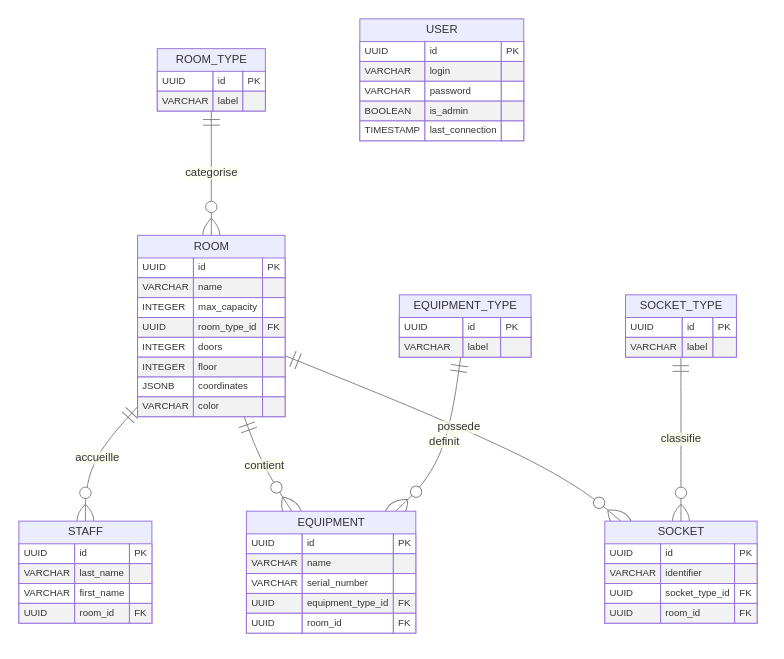
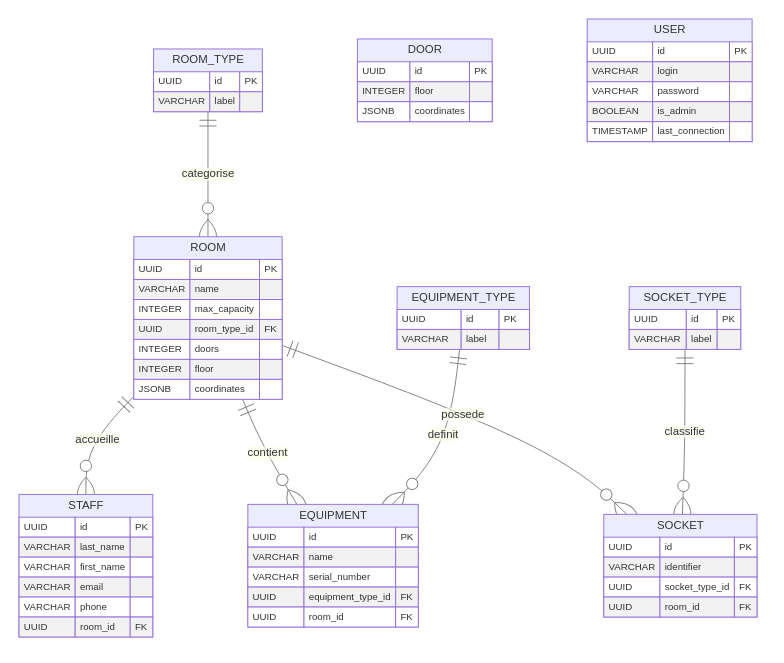
rapport v0.9999

diff --git a/rapport/sections/04_database.tex b/rapport/sections/04_database.tex
@@ -1,6 +1,6 @@
 \chapter{Conception de la Base de Données}
 
-La conception de la base de données est au cœur de notre application. Pour garantir l'intégrité des données des locaux, du personnel et du matériel, nous avons choisi une modélisation relationnelle sous PostgreSQL.
+La conception de la base de données est au cœur de notre application. Pour garantir l'intégrité des données des locaux, du personnel et du matériel, nous avons choisi une modélisation relationnelle sous PostgreSQL. Les tables utilisent des identifiants UUID pour garantir l'unicité et faciliter les fusions/synchronisations ; les coordonnées des salles sont stockées au format JSONB afin de conserver une représentation structurée et extensible des positions et dimensions des zones sur les plans.
 
 \section{Modèle Logique de Données (MLD)}
 Le schéma ci-dessous présente l'organisation des tables et les relations entre elles. Il met l'accent sur les contraintes d'intégrité référentielle (clés primaires et étrangères), qui assurent la cohérence des informations de l'inventaire et de l'occupation des salles.
@@ -17,9 +17,20 @@ Le schéma ci-dessous présente l'organisation des tables et les relations entre
     \item \textbf{Table \texttt{room}} : Elle modélise les espaces physiques. Chaque salle est caractérisée par sa capacité maximale, son type, son étage et ses coordonnées pour le plan.
     \item \textbf{Table \texttt{staff}} : Elle contient le personnel affecté aux locaux. La relation \texttt{room\_id} permet de savoir où chaque employé est positionné.
     \item \textbf{Table \texttt{user}} : Cette table stocke les comptes d'accès à l'application. Le champ \texttt{is\_admin} distingue les utilisateurs avec droits d'administration des utilisateurs standards.
+    \item \textbf{Champs de contact utilisateur} : la table \texttt{user} contient également les champs \texttt{email} et \texttt{phone} pour permettre la communication et la récupération d'accès. Ces données personnelles doivent être traitées conformément aux bonnes pratiques de confidentialité (chiffrement en transit, accès restreint, politiques de rétention).
     \item \textbf{Tables de référence} : \texttt{room\_type}, \texttt{equipment\_type} et \texttt{socket\_type} garantissent la cohérence des catégories utilisées dans les salles, le matériel et les prises.
     \item \textbf{Table \texttt{equipment}} : Elle représente l'inventaire matériel d'une salle. Chaque équipement est lié à un type et peut être rattaché à une salle.
     \item \textbf{Table \texttt{socket}} : Elle répertorie les prises présentes dans chaque salle et les associe à un type de connectique.
 \end{itemize}
 
 La modélisation adopte des règles solides : les types de référence sont supprimés en cascade, tandis que les dépendances sur les salles sont gérées avec \texttt{SET NULL} lorsque cela est pertinent, afin de préserver les données historiques et limiter les pertes involontaires.
+
+\subsection{Remarques et optimisations}
+La base contient également une table \texttt{door} (identifiant, étage et coordonnées JSONB) utilisée pour modéliser des points d'accès sur les plans. Les coordonnées des salles et portes sont stockées en \texttt{JSONB} afin de garder une structure flexible et extensible.
+
+Recommandations pratiques :
+\begin{itemize}
+    \item Ajouter des indexes sur les colonnes souvent filtrées comme \texttt{room.name}, \texttt{staff.room\_id} et \texttt{equipment.room\_id} pour améliorer les performances de lecture.
+    \item Documenter une politique de sauvegarde et de restauration (dumps réguliers du volume \texttt{pgdata}).
+    \item Ne pas laisser de comptes administrateurs avec identifiants par défaut en production ; forcer le changement de mot de passe au premier login.
+\end{itemize}

diff --git a/rapport/sections/05_logiciel.tex b/rapport/sections/05_logiciel.tex
@@ -23,3 +23,6 @@ La conception logicielle privilégie une séparation claire des responsabilités
 \end{itemize}
 
 Cette architecture améliore la maintenabilité du projet. Le backend reste léger et modulaire, tandis qu'Angular assure un rendu dynamique et une expérience utilisateur fluide.
+
+\section{Sécurité et gestion des mots de passe}
+Le backend gère l'authentification des utilisateurs et le stockage sécurisé des mots de passe. Concrètement, les mots de passe sont hachés côté serveur (fonction `hashPassword` dans `back/config/auth.js`) à l'aide d'un dérivé sécurisé (scrypt) avant d'être persistés en base. La vérification (`verifyPassword`) compare de façon sécurisée le mot de passe fourni avec le haché stocké. Par mesure de sécurité, il est recommandé de changer le mot de passe administrateur par défaut fourni dans les scripts d'initialisation dès le premier déploiement, et d'utiliser des secrets/variables d'environnement pour les identifiants en production.

diff --git a/rapport/sections/01_introduction.tex b/rapport/sections/01_introduction.tex
@@ -3,7 +3,7 @@
 Dans le cadre de notre dernière année de Master 2 en Informatique, parcours Conception et Développement, il nous a été confié la réalisation d'un projet de fin d'études axé sur la gestion du personnel et du matériel du département informatique. 
 
 \section{Contexte et Objectifs}
-L'objectif principal de ce projet est de concevoir et développer une web app complète permettant de recenser et de gérer les personnels ainsi que le matériel informatique au sein des différents locaux du département. 
+L'objectif principal de ce projet est de concevoir et développer une web app complète permettant de recenser et de gérer les personnels ainsi que le matériel informatique au sein des différentes salles du département. 
 
 Ce système doit permettre de classer les espaces selon leur type (bureau, salle de classe, salle de réunion...) et de gérer leur capacité d'accueil. Il est également nécessaire de pouvoir suivre l'équipement présent dans chaque salle (prises réseaux, vidéoprojecteurs tableaux...), et de gérer dynamiquement les affectations du personnel.
 

diff --git a/rapport/sections/02_visualisation.tex b/rapport/sections/02_visualisation.tex
@@ -25,7 +25,7 @@ La figure ci-dessous illustre l'interface principale de l'application, montrant 
 
 \begin{figure}[h]
     \centering
-    %\includegraphics[width=\linewidth,keepaspectratio]{img/screenshot_interface.png}
+    \includegraphics[width=\linewidth,keepaspectratio]{img/screenshot_interface.png}
     \caption{Interface de visualisation des plans JSON avec options d'export PDF}
     \label{fig:screenshot-interface}
 \end{figure}

diff --git a/rapport/sections/03_architecture.tex b/rapport/sections/03_architecture.tex
@@ -28,7 +28,7 @@ Le schéma suivant illustre le workflow principal de l'application : l'utilisate
 Afin de garantir que notre site soit "facilement installable" sur n'importe quel serveur du département informatique, nous avons intégré Docker dès le premier jour de développement. Docker nous permet d'encapsuler notre base de données, notre backend et notre frontend dans des conteneurs isolés. L'utilisation de \texttt{docker-compose} permet de lancer l'intégralité de l'environnement avec une seule commande, résolvant ainsi les problèmes de compatibilité entre les systèmes d'exploitation, que ce soit pour nous développeurs du projet, ou pour les futurs utilisateurs.
 
 \section[Collaboration et Intégration Continue : GitHub]{Collaboration et Intégration Continue : GitHub \raisebox{-0.2\height}{\includegraphics[height=0.6cm]{img/logo_github.png}}}
-Travaillant en équipe de quatre, nous avons choisi GitHub comme plateforme de gestion des versions du code. Cette approche nous a permis de maintenir une traçabilité rigoureuse des modifications, de créer des releases versionnées pour nos livrables, et de répartir le travail via des tickets (issues). Ce choix reproduit les bonnes pratiques observées dans les équipes professionnelles et facilite la collaboration entre membres de l'équipe.
+Travaillant en équipe de quatre, nous avons choisi GitHub comme plateforme de gestion des versions du code. Cette approche nous a permis de maintenir une traçabilité rigoureuse des modifications, de créer des releases versionnées pour nos livrables, et de répartir le travail via des tickets (issues). Concrètement, les issues servent à définir et prioriser les tâches : chaque tâche donne lieu à une branche dédiée puis à une pull request (merge request) regroupant les changements et facilitant la revue de code et la validation avant fusion. Ce choix reproduit les bonnes pratiques observées dans les équipes professionnelles et facilite la collaboration entre membres de l'équipe.
 
 \section{Organisation du Projet}
 Afin de garantir une séparation stricte des responsabilités (separation of concerns), notre dépôt de code est structuré de la manière suivante :